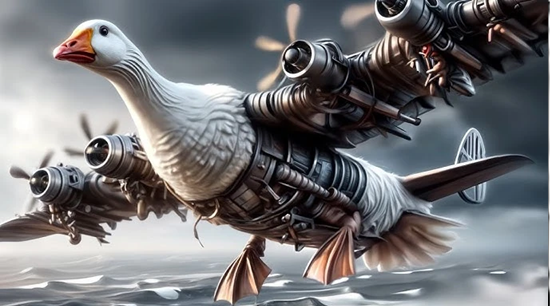
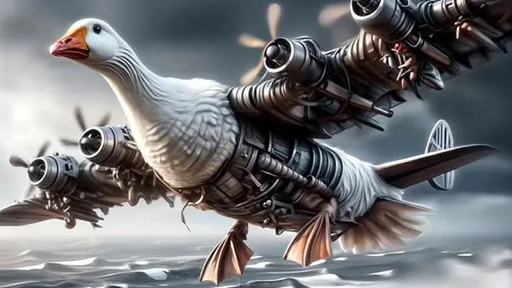
Add Bombombini Gusini local image and update BRAINROTS array

diff --git a/Brainrot Clicker.html b/Brainrot Clicker.html
@@ -40,7 +40,7 @@ const PLAYER_IMG="https://agent.creao.ai/api/files/download?key=workspaces/2zj8l
[2 lines of base64/hex data omitted]
 const INFINITY_T=1e18;
-const BRAINROTS=[{id:'tung',name:'Tung Tung Sahur',godName:'Tung Tung God',img:'/Brainrot-Clicker/images/tung_tung_sahur.png',godImg:TUNG_GOD_IMG,ppc:1,cost:0,color:'#ff8c42',sound:'Tung',rarity:'common'},{id:'tim',name:'Tim Cheese',img:'/Brainrot-Clicker/images/tim_cheese.png',ppc:3,cost:90,color:'#f1c40f',sound:'Tim',rarity:'common'},{id:'patapim',name:'Brr Brr Patapim',emoji:'🌳',ppc:5,cost:1170,color:'#2ecc71',sound:'Brr Brr',rarity:'common',img:'/Brainrot-Clicker/images/brr_brr.png'},{id:'bomb',name:'Bombardiro Crocodilo',emoji:'🐊',ppc:8,cost:3000,color:'#27ae60',sound:'Bombardiro',rarity:'common',img:'/Brainrot-Clicker/images/Bombardiro_Crocodilo.png'},{id:'frulli',name:'Frulli Frullia',emoji:'🍓',ppc:11,cost:6000,color:'#ff5ca8',sound:'Frulli',rarity:'rare',img:'/Brainrot-Clicker/images/fruli_frulia.png'},{id:'lirili',name:'Lirili Larila',emoji:'🐘',ppc:16,cost:10800,color:'#9b59b6',sound:'Lirili',rarity:'epic',img:'/Brainrot-Clicker/images/Lirili_Larila.png'},{id:'trala',name:'Tralalero Tralala',emoji:'🦈',ppc:20,cost:12000,color:'#00d4ff',sound:'Tralalero',rarity:'rare',img:'/Brainrot-Clicker/images/tralalero tralala.png'},{id:'gusini',name:'Bombombini Gusini',emoji:'💣',ppc:105,cost:22500,color:'#ff4d4d',sound:'Bombombini',rarity:'epic',img:'https://italianbrainrot.miraheze.org/images/b/b8/Bombini_Gusini.jpeg'},{id:'coco',name:'Cocofanto Elefanto',emoji:'🥥',ppc:200,cost:54000,color:'#c47f4a',sound:'Cocofanto',rarity:'epic',img:'https://upload.wikimedia.org/wikipedia/commons/e/e3/Ballerina_Cappucina.webp?utm_source=commons.wikimedia.org&utm_campaign=index&utm_content=original'},{id:'ryan',name:'Ryan Butlord',emoji:'🧈',ppc:450,cost:70000,color:'#ff9f43',sound:'Ryan Butlord',rarity:'rare',img:'https://upload.wikimedia.org/wikipedia/commons/e/e3/Trippi_Troppi_Italian_brainrot.png?utm_source=commons.wikimedia.org&utm_campaign=index&utm_content=original'},{id:'odin',name:'Odin Din Dun',emoji:'🧙',ppc:1000,cost:120000,color:'#7fdbff',sound:'Odin Din Dun',rarity:'epic',img:'https://www.pngall.com/wp-content/uploads/20/Odindin-Dean-Dean-Dunmadin-Dean-Dundun-PNG.png'},{id:'homer',name:'Homer Dropped His Donut',emoji:'🍩',ppc:10000,cost:600000,color:'#ffcc33',sound:'Donut',rarity:'epic',img:'https://upload.wikimedia.org/wikipedia/commons/f/f0/Simpsons_Donut.svg?utm_source=commons.wikimedia.org&utm_campaign=index&utm_content=original'},{id:'ander',name:'Ander Dingus',emoji:'🤓',ppc:30000,cost:1200000,color:'#b8ff6a',sound:'Ander Dingus',rarity:'superrare',img:'https://www.pngall.com/wp-content/uploads/20/Ananitto-Giraffini-PNG-thumb.png'},{id:'mateo',name:'Mateo',emoji:'🧢',ppc:100000,cost:10200000,color:'#6ac8ff',sound:'Mateo',rarity:'epic',img:'https://www.pngall.com/brainrot-characters-png/download/381726/'},{id:'jobjob',name:'Job Job Job Sahur',emoji:'💼',ppc:150000,cost:12000000,color:'#ffa64d',sound:'Job Job Job',rarity:'epic',img:'https://www.pngall.com/work-png/download/69570/'},{id:'john',name:'John Pork',emoji:'🐷',ppc:750000,cost:4200000000,color:'#ff9bb3',sound:'John Pork',rarity:'legend',img:'https://upload.wikimedia.org/wikipedia/commons/6/19/Writer_John.JPG?utm_source=commons.wikimedia.org&utm_campaign=index&utm_content=original'},{id:'spaghetti',name:'Spaghetti Tualetti',emoji:'🍝',ppc:50000,cost:5500000,color:'#ff6348',sound:'Spaghetti Tualetti',rarity:'legend',tripleOnly:true,img:'https://www.pngall.com/brainrot-characters-png/download/381735/'},{id:'chitlinburger',name:'Chitlin Burger',emoji:'🍔',ppc:100000000000000,cost:Infinity,color:'#c8860a',sound:'Chitlin Burger',rarity:'legend',secret:true,noPrestige:true,img:'https://i.imgur.com/8XqQ4Y7.png'}];
+const BRAINROTS=[{id:'tung',name:'Tung Tung Sahur',godName:'Tung Tung God',img:'/Brainrot-Clicker/images/tung_tung_sahur.png',godImg:TUNG_GOD_IMG,ppc:1,cost:0,color:'#ff8c42',sound:'Tung',rarity:'common'},{id:'tim',name:'Tim Cheese',img:'/Brainrot-Clicker/images/tim_cheese.png',ppc:3,cost:90,color:'#f1c40f',sound:'Tim',rarity:'common'},{id:'patapim',name:'Brr Brr Patapim',emoji:'🌳',ppc:5,cost:1170,color:'#2ecc71',sound:'Brr Brr',rarity:'common',img:'/Brainrot-Clicker/images/brr_brr.png'},{id:'bomb',name:'Bombardiro Crocodilo',emoji:'🐊',ppc:8,cost:3000,color:'#27ae60',sound:'Bombardiro',rarity:'common',img:'/Brainrot-Clicker/images/Bombardiro_Crocodilo.png'},{id:'frulli',name:'Frulli Frullia',emoji:'🍓',ppc:11,cost:6000,color:'#ff5ca8',sound:'Frulli',rarity:'rare',img:'/Brainrot-Clicker/images/fruli_frulia.png'},{id:'lirili',name:'Lirili Larila',emoji:'🐘',ppc:16,cost:10800,color:'#9b59b6',sound:'Lirili',rarity:'epic',img:'/Brainrot-Clicker/images/Lirili_Larila.png'},{id:'trala',name:'Tralalero Tralala',emoji:'🦈',ppc:20,cost:12000,color:'#00d4ff',sound:'Tralalero',rarity:'rare',img:'/Brainrot-Clicker/images/tralalero tralala.png'},{id:'gusini',name:'Bombombini Gusini',emoji:'💣',ppc:105,cost:22500,color:'#ff4d4d',sound:'Bombombini',rarity:'epic',img:'/Brainrot-Clicker/images/bombini_gusini.png'},{id:'coco',name:'Cocofanto Elefanto',emoji:'🥥',ppc:200,cost:54000,color:'#c47f4a',sound:'Cocofanto',rarity:'epic',img:'https://upload.wikimedia.org/wikipedia/commons/e/e3/Ballerina_Cappucina.webp?utm_source=commons.wikimedia.org&utm_campaign=index&utm_content=original'},{id:'ryan',name:'Ryan Butlord',emoji:'🧈',ppc:450,cost:70000,color:'#ff9f43',sound:'Ryan Butlord',rarity:'rare',img:'https://upload.wikimedia.org/wikipedia/commons/e/e3/Trippi_Troppi_Italian_brainrot.png?utm_source=commons.wikimedia.org&utm_campaign=index&utm_content=original'},{id:'odin',name:'Odin Din Dun',emoji:'🧙',ppc:1000,cost:120000,color:'#7fdbff',sound:'Odin Din Dun',rarity:'epic',img:'https://www.pngall.com/wp-content/uploads/20/Odindin-Dean-Dean-Dunmadin-Dean-Dundun-PNG.png'},{id:'homer',name:'Homer Dropped His Donut',emoji:'🍩',ppc:10000,cost:600000,color:'#ffcc33',sound:'Donut',rarity:'epic',img:'https://upload.wikimedia.org/wikipedia/commons/f/f0/Simpsons_Donut.svg?utm_source=commons.wikimedia.org&utm_campaign=index&utm_content=original'},{id:'ander',name:'Ander Dingus',emoji:'🤓',ppc:30000,cost:1200000,color:'#b8ff6a',sound:'Ander Dingus',rarity:'superrare',img:'https://www.pngall.com/wp-content/uploads/20/Ananitto-Giraffini-PNG-thumb.png'},{id:'mateo',name:'Mateo',emoji:'🧢',ppc:100000,cost:10200000,color:'#6ac8ff',sound:'Mateo',rarity:'epic',img:'https://www.pngall.com/brainrot-characters-png/download/381726/'},{id:'jobjob',name:'Job Job Job Sahur',emoji:'💼',ppc:150000,cost:12000000,color:'#ffa64d',sound:'Job Job Job',rarity:'epic',img:'https://www.pngall.com/work-png/download/69570/'},{id:'john',name:'John Pork',emoji:'🐷',ppc:750000,cost:4200000000,color:'#ff9bb3',sound:'John Pork',rarity:'legend',img:'https://upload.wikimedia.org/wikipedia/commons/6/19/Writer_John.JPG?utm_source=commons.wikimedia.org&utm_campaign=index&utm_content=original'},{id:'spaghetti',name:'Spaghetti Tualetti',emoji:'🍝',ppc:50000,cost:5500000,color:'#ff6348',sound:'Spaghetti Tualetti',rarity:'legend',tripleOnly:true,img:'https://www.pngall.com/brainrot-characters-png/download/381735/'},{id:'chitlinburger',name:'Chitlin Burger',emoji:'🍔',ppc:100000000000000,cost:Infinity,color:'#c8860a',sound:'Chitlin Burger',rarity:'legend',secret:true,noPrestige:true,img:'https://i.imgur.com/8XqQ4Y7.png'}];
 const UPGRADES=[{id:'c1',name:'Double Tap',emoji:'👆',desc:'+2 PPC',cost:92,effect:2,type:'click'},{id:'c2',name:'Power Punch',emoji:'👊',desc:'+5 PPC',cost:480,effect:5,type:'click'},{id:'c3',name:'Mega Smash',emoji:'💥',desc:'+15 PPC',cost:2400,effect:15,type:'click'},{id:'c4',name:'Sigma Grip',emoji:'🔱',desc:'+50 PPC',cost:15000,effect:50,type:'click'},{id:'c5',name:'God Click',emoji:'⚡',desc:'+200 PPC',cost:90000,effect:200,type:'click'}];
 const AUTOS=[{id:'a1',name:'Auto Tapper',emoji:'🤖',desc:'+1/sec',cost:152,effect:1,type:'auto'},{id:'a2',name:'Brainrot Farm',emoji:'🌾',desc:'+5/sec',cost:900,effect:5,type:'auto'},{id:'a3',name:'Chaos Engine',emoji:'⚙',desc:'+20/sec',cost:4800,effect:20,type:'auto'},{id:'a4',name:'Sigma Factory',emoji:'🏭',desc:'+75/sec',cost:30000,effect:75,type:'auto'},{id:'a5',name:'Brainrot Matrix',emoji:'🔮',desc:'+300/sec',cost:150000,effect:300,type:'auto'}];
 const QUESTS=[
